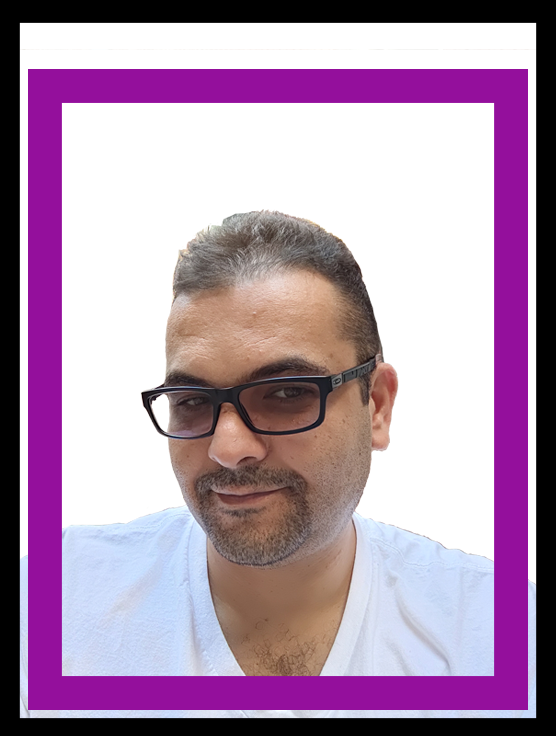
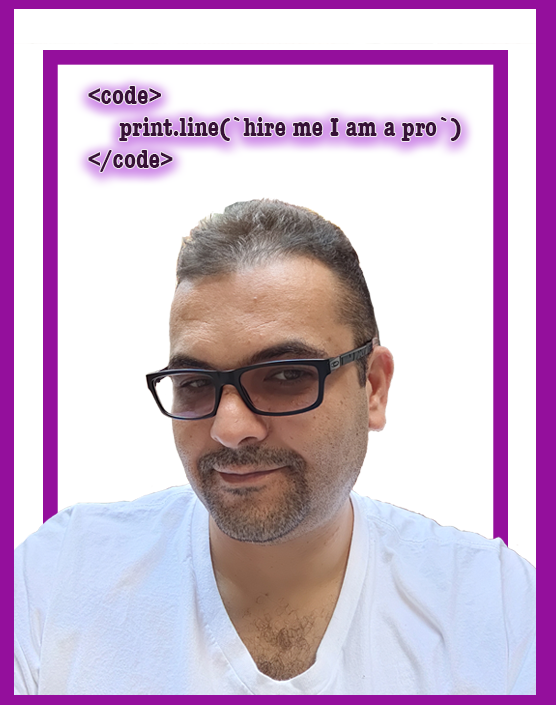
legacy-dis

diff --git a/src/components/About.js b/src/components/About.js
@@ -1,6 +1,6 @@
 import React from 'react';
 import Typed from 'react-typed';
-import aboutImg from '../components/images/final.png';
+import aboutImg from '../components/images/framed-self.png';
 import '../styles/custom.css';
 
 const resume =
